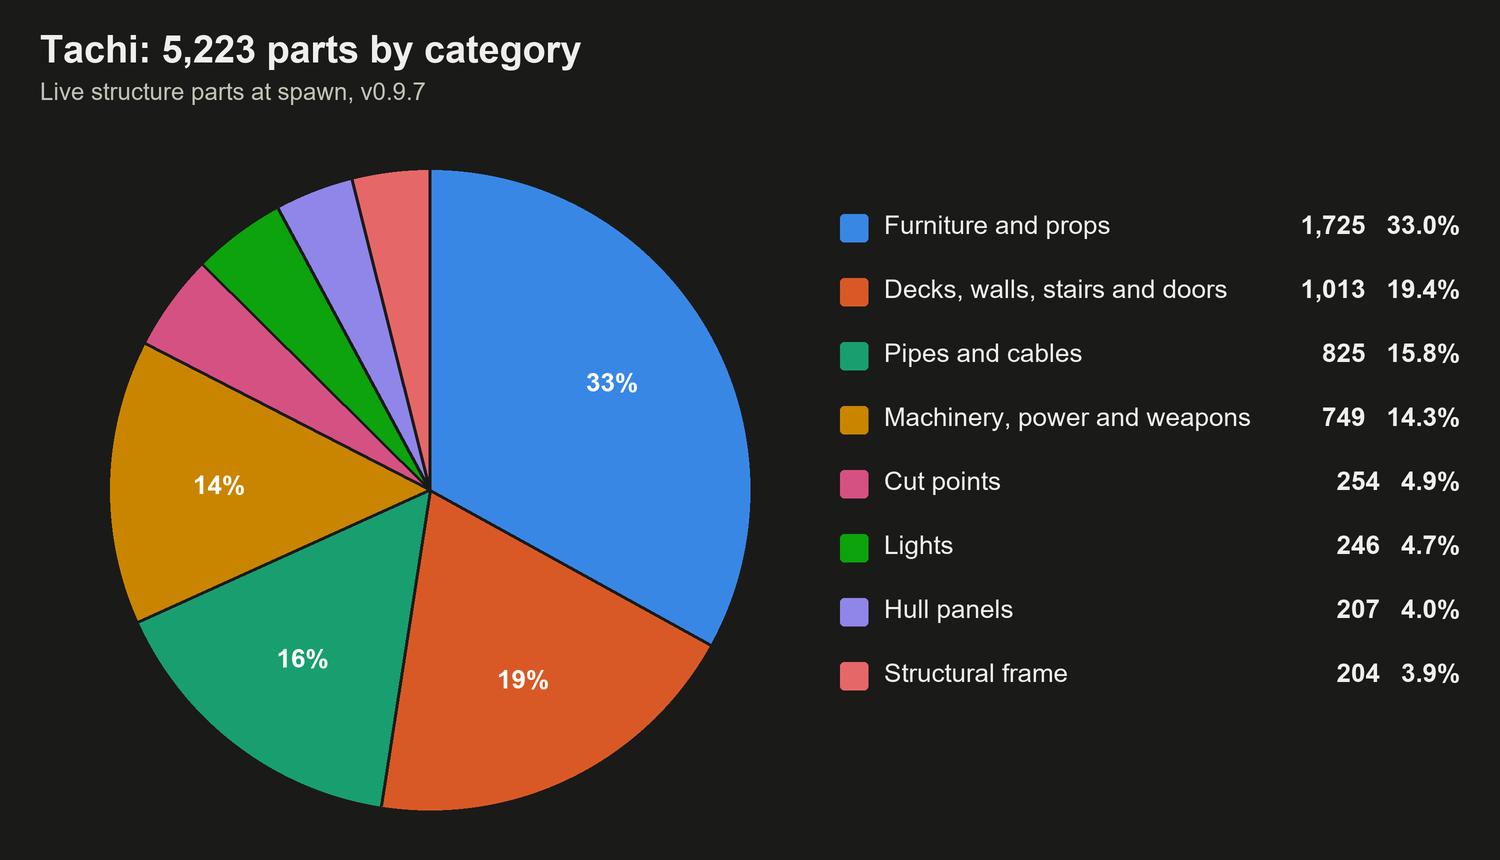
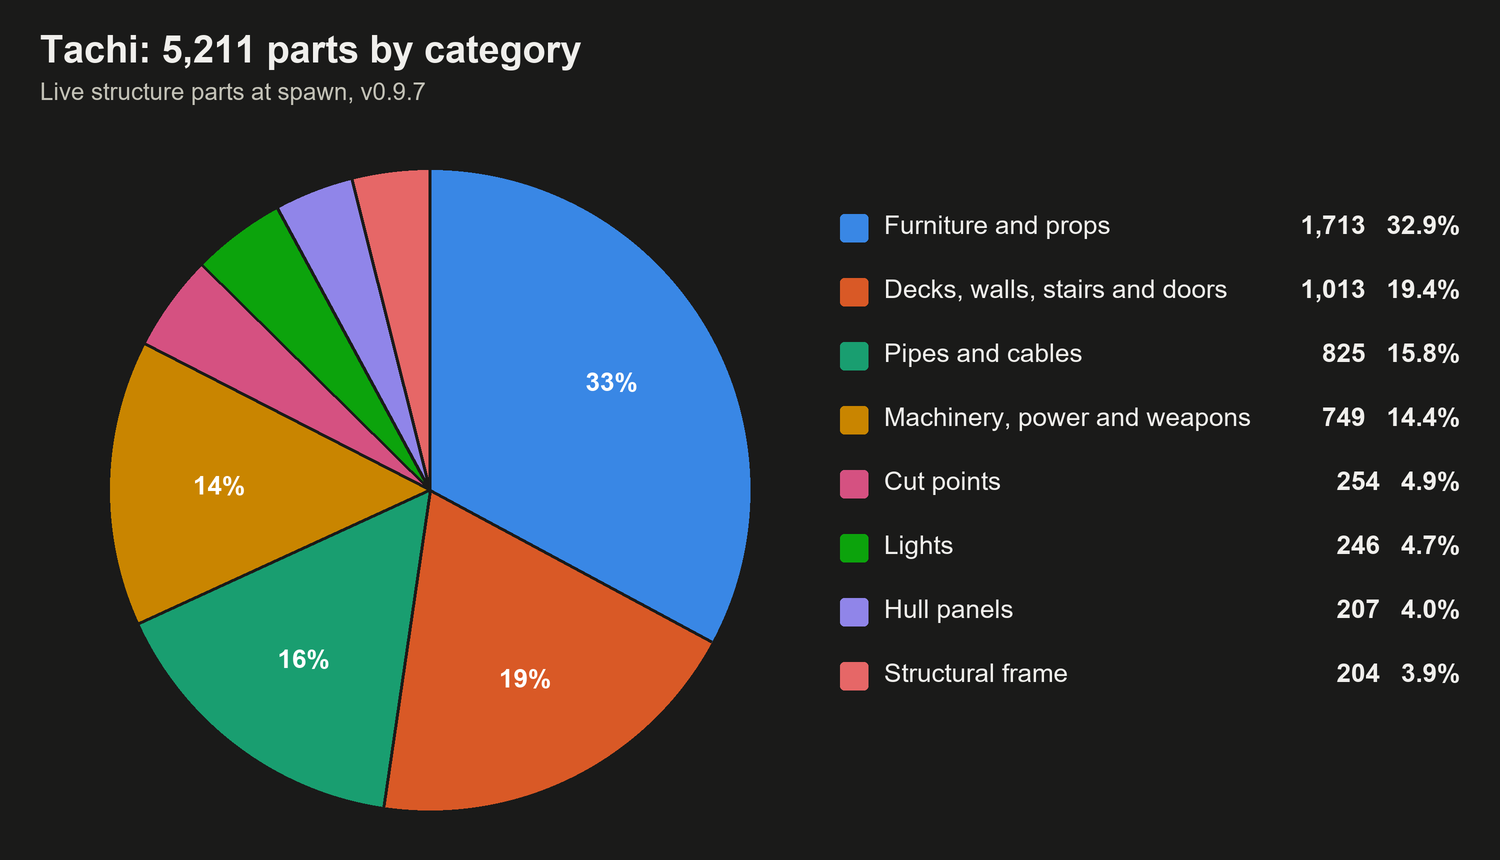
Tachi v0.9.7: statistics, charts and Nexus numbers re-measured on the release build

diff --git a/Docs/Tachi_Ship_Statistics.md b/Docs/Tachi_Ship_Statistics.md
@@ -2,7 +2,7 @@
 
 A custom salvage ship for Hardspace: Shipbreaker, modelled on the MCRN Corvette-class light frigate *Tachi* from *The Expanse*.
 
-Figures are from the v0.9.7 builds of 20 November 2026. Base ship ("MCRN Tachi") part figures are from the build of 20 November, 21:39; Gas variant ("Beratnas Gas Hauler") part figures are from the load of 20 November, 19:59, and are marked where the two differ in date. "Measured" means taken from the game or the editor on that build. "Estimate" means calculated, with the method given.
+Figures are from the v0.9.7 builds of 20 November 2026. Base ship ("MCRN Tachi") part figures are from the build of 20 November, 21:52 (the release build); Gas variant ("Beratnas Gas Hauler") part figures are from the load of 20 November, 19:59, and are marked where the two differ in date. "Measured" means taken from the game or the editor on that build. "Estimate" means calculated, with the method given.
 
 ## At a glance
 
@@ -11,9 +11,9 @@ Figures are from the v0.9.7 builds of 20 November 2026. Base ship ("MCRN Tachi")
 | Length (engine bell to antenna tip) | 133.7 m |
 | Beam (port to starboard, over the gun mounts) | 54.6 m (Gas variant, over the tank racks: 67.2 m) |
 | Height (dorsal to ventral) | 46.3 m (Gas variant: 55.1 m) |
-| Live parts at spawn | 5,223 (Gas variant: 5,868) |
+| Live parts at spawn | 5,211 (Gas variant: 5,868) |
 | Cut points | 254 (Gas variant: 333) |
-| Loose items at spawn | 180 (props, pickups and one floating corpse) |
+| Loose items at spawn | 181 (props, pickups and one floating corpse) |
 | Estimated mass | at least 268 t (Gas variant: about 394 t; see Mass) |
 | Download size | 177 MB (zip, all three variants) |
 | Load time on the test PC | 45 to 138 s |
@@ -64,12 +64,12 @@ If the game sits on the loading screen for more than ten minutes, treat it as a 
 
 | | |
 |---|---|
-| Live parts at spawn (every piece the game simulates) | 5,223 |
-| Parts counted by the game's joint pass | 5,221 |
-| Objects in the ship that never become parts | 277 (see below) |
+| Live parts at spawn (every piece the game simulates) | 5,211 |
+| Parts counted by the game's joint pass | 5,208 |
+| Objects in the ship that never become parts | 276 (see below) |
 | Largest mesh | `PDC_Mid_Port_Nest_02`, 18,291 vertices |
 | Part ceiling at that mesh size | 7,337 |
-| Headroom | 2,116 parts |
+| Headroom | 2,129 parts |
 
 **The part ceiling.** While the ship loads, the game multiplies the number of parts by the vertex count of the largest single mesh. If that product passes 134,217,728 the game crashes on load. With the current largest mesh that allows 7,337 parts. Adding parts, or adding one mesh larger than 18,291 vertices, both use up the headroom.
 
@@ -88,10 +88,10 @@ If the game sits on the loading screen for more than ten minutes, treat it as a 
 
 | Category | Parts | Share |
 |---|---|---|
-| Furniture and props | 1,725 | 33.0 % |
+| Furniture and props | 1,713 | 32.9 % |
 | Decks, walls, stairs and doors | 1,013 | 19.4 % |
 | Pipes and cables | 825 | 15.8 % |
-| Machinery, power and weapons | 749 | 14.3 % |
+| Machinery, power and weapons | 749 | 14.4 % |
 | Cut points | 254 | 4.9 % |
 | Lights | 246 | 4.7 % |
 | Hull panels | 207 | 4.0 % |
@@ -107,33 +107,33 @@ Categories are assigned from each part's joint type and name. The rules were rew
 
 | Section | Parts | Largest categories |
 |---|---|---|
-| Interior | 4,219 | Furniture and props 38 %, decks and walls 21 %, pipes and cables 17 % |
+| Interior | 4,207 | Furniture and props 38 %, decks and walls 21 %, pipes and cables 17 % |
 | Aft interior | 476 | Pipes and cables 23 %, decks and walls 22 %, machinery 22 % |
 | Forward hull | 271 | Hull panels 56 %, machinery 28 %, structural frame 7 % |
 | Aft hull and engine | 257 | Structural frame 34 %, machinery 23 %, hull panels 22 % |
 
 ### Loose parts
 
-Every structural part of the ship is attached. At spawn the main structure is one body of 5,043 parts, and nothing structural is separate from it.
+Every structural part of the ship is attached. At spawn the main structure is one body of 5,030 parts, and nothing structural is separate from it.
 
 | | |
 |---|---|
-| Main structure | 5,043 parts in one body |
-| Loose parts | 180, in 155 separate bodies |
-| Loose single items | 145 |
+| Main structure | 5,030 parts in one body |
+| Loose parts | 181, in 156 separate bodies |
+| Loose single items | 146 |
 | Loose bodies of more than one part | 10 |
 
-All 180 loose parts are items meant to float or be picked up:
+All 181 loose parts are items meant to float or be picked up:
 
 ![Loose parts by type](Tachi_Loose_Parts.png)
 
 | Type | Parts | Share |
 |---|---|---|
-| Galley items (bowls, food, coffee maker, vending parts) | 38 | 21.1 % |
-| Bottles | 32 | 17.8 % |
-| Data and credit drives | 27 | 15.0 % |
-| Snack packs | 19 | 10.6 % |
-| Suit pieces and helmets | 18 | 10.0 % |
+| Galley items (bowls, food, coffee maker, vending parts) | 38 | 21.0 % |
+| Bottles | 32 | 17.7 % |
+| Data and credit drives | 28 | 15.5 % |
+| Snack packs | 19 | 10.5 % |
+| Suit pieces and helmets | 18 | 9.9 % |
 | Other (ten spare-part pickups, wall chestplates, a repair kit, a toy, two salvage bay objects) | 17 | 9.4 % |
 | Floating corpse and its suit | 15 | 8.3 % |
 | Supply pickups (oxygen, thruster fuel, med and patch kits) | 7 | 3.9 % |
@@ -177,16 +177,16 @@ The ship has one base version and two variants. A variant is the same ship with 
 |---|---|---|---|
 | What differs | | Tri-colour livery only | Livery, 24 external tanks on trusses, point defence cannons removed, own bay pose |
 | Spawn weight in the ship files | 4 | 5 | 1 |
-| Live parts at spawn | 5,223 | same parts as the base (not measured) | 5,868 |
-| Parts counted by the joint pass | 5,221 | | 5,866 |
-| Headroom under the part ceiling | 2,116 | | 1,471 |
-| Main structure | 5,043 | | 5,684 |
-| Loose parts | 180 in 155 bodies | | 184 in 159 bodies |
+| Live parts at spawn | 5,211 | same parts as the base (not measured) | 5,868 |
+| Parts counted by the joint pass | 5,208 | | 5,866 |
+| Headroom under the part ceiling | 2,129 | | 1,471 |
+| Main structure | 5,030 | | 5,684 |
+| Loose parts | 181 in 156 bodies | | 184 in 159 bodies |
 | Cut points | 254 | | 333 |
 | Size (length x beam x height) | 133.7 x 54.6 x 46.3 m | same | 133.7 x 67.2 x 55.1 m |
 | Estimated mass | at least 268 t | same | about 394 t (see Mass) |
 
-Base figures are from the build of 20 November, 21:39. Gas figures are from the load of 20 November, 19:59, before the last interior changes of that evening (four flight deck seats replaced by server towers, a galley table and two chairs removed), which take about 60 parts off every variant. The release build also has one galley table and two chairs fewer than the base build counted here.
+Base figures are from the build of 20 November, 21:52 (the release build). Gas figures are from the load of 20 November, 19:59, before the last interior changes of that evening (four flight deck seats replaced by server towers, a galley table and two chairs removed), which take about 60 parts off every variant.
 
 **Gas variant tank racks**
 
@@ -248,7 +248,7 @@ The game works out a part's mass from its material density and the volume of its
 | Section | What it is | Live parts | Size, length × beam × height (m) | Est. mass (t) | Cut points |
 |---|---|---|---|---|---|
 | A_Section | Forward outer hull, gun mounts, torpedo tubes, RCS | 271 | 81.1 × 54.6 × 31.3 | 113.0 | 15 |
-| Interior Vessel | Decks, tunnel walls, crawlspace, furnishings | 4,219 | 90.9 × 26.2 × 28.0 | 49.1 | 193 |
+| Interior Vessel | Decks, tunnel walls, crawlspace, furnishings | 4,207 | 90.9 × 26.2 × 28.0 | 49.1 | 193 |
 | B_External | Engineering hull, support ring, engine | 257 | 54.4 × 28.0 × 46.3 | 70.9 | 32 |
 | B_Internal | Aft airlock, cryogenics, fusion reactor | 476 | 28.8 × 23.1 × 21.0 | 34.6 | 14 |
 
@@ -338,7 +338,7 @@ The lore gives performance figures for the Epstein drive in general, not for thi
 | Figure | Source |
 |---|---|
 | Load times, joint-pass part count, largest mesh, part ceiling | Logged by the PartInfoLogger mod during loading |
-| Live parts, categories, loose parts, cut points per section | The mod's spawn census: base ship from the build of 20 November, 21:39, Gas variant from the load of 20 November, 19:59; exact joints between parts |
+| Live parts, categories, loose parts, cut points per section | The mod's spawn census: base ship from the build of 20 November, 21:52 (the release build), Gas variant from the load of 20 November, 19:59; exact joints between parts |
 | Dimensions, per-section sizes | Part bounds in the Unity editor |
 | Volume | Calculated from part bounds, as described above |
 | Mass | Calculated with the game's own formula from mesh volume and material density, plus game-reported masses for stock parts |
